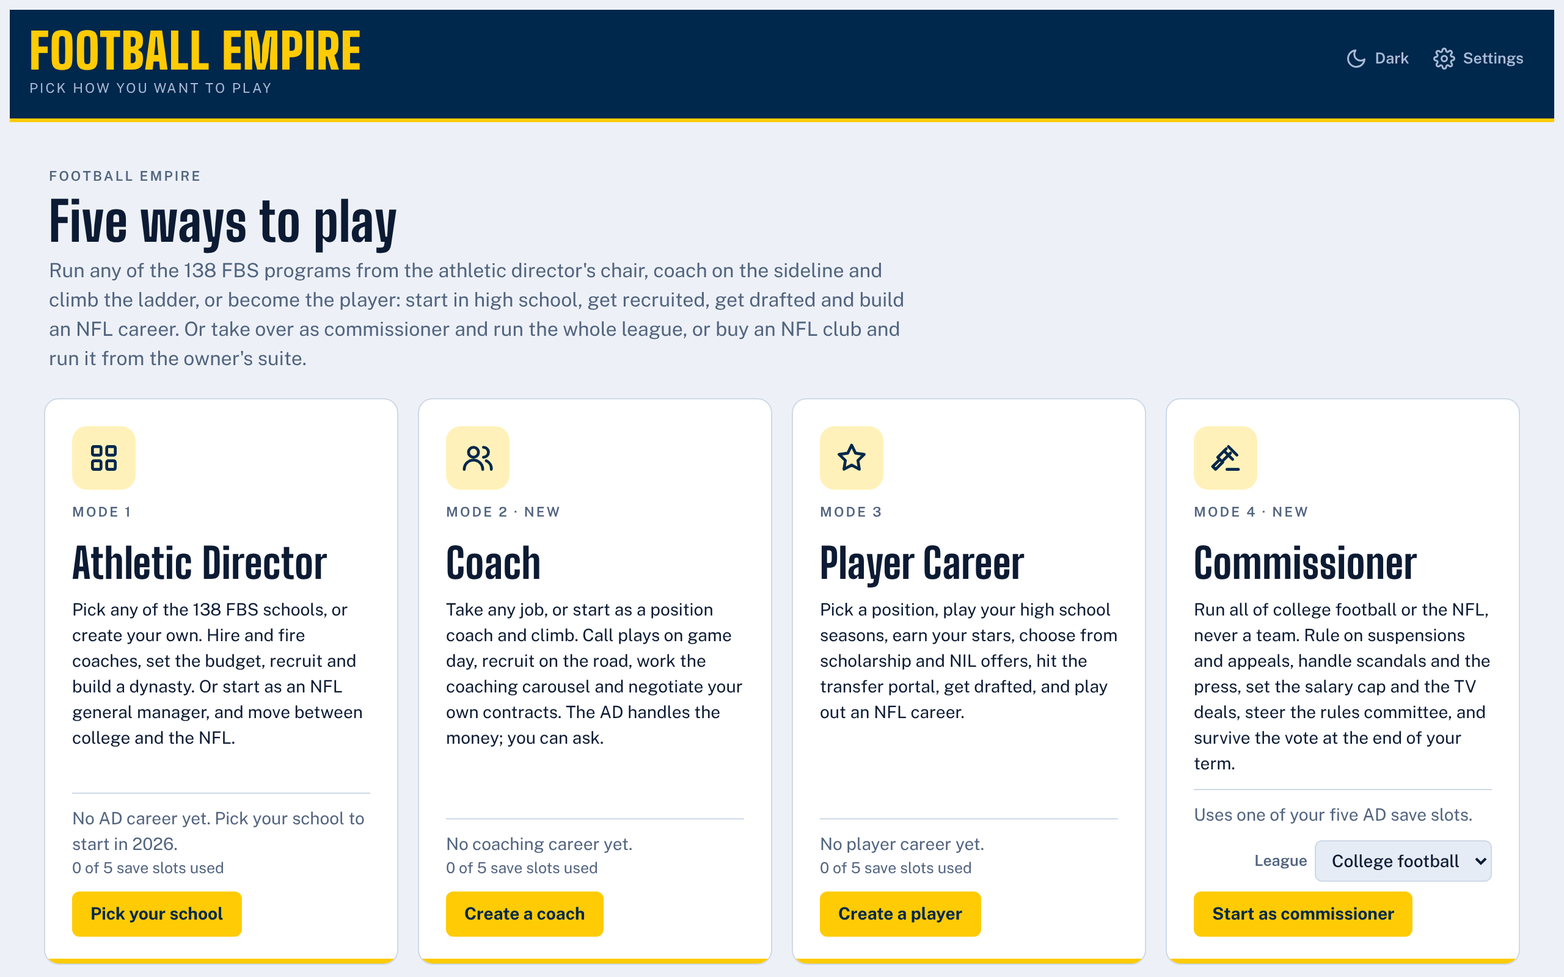
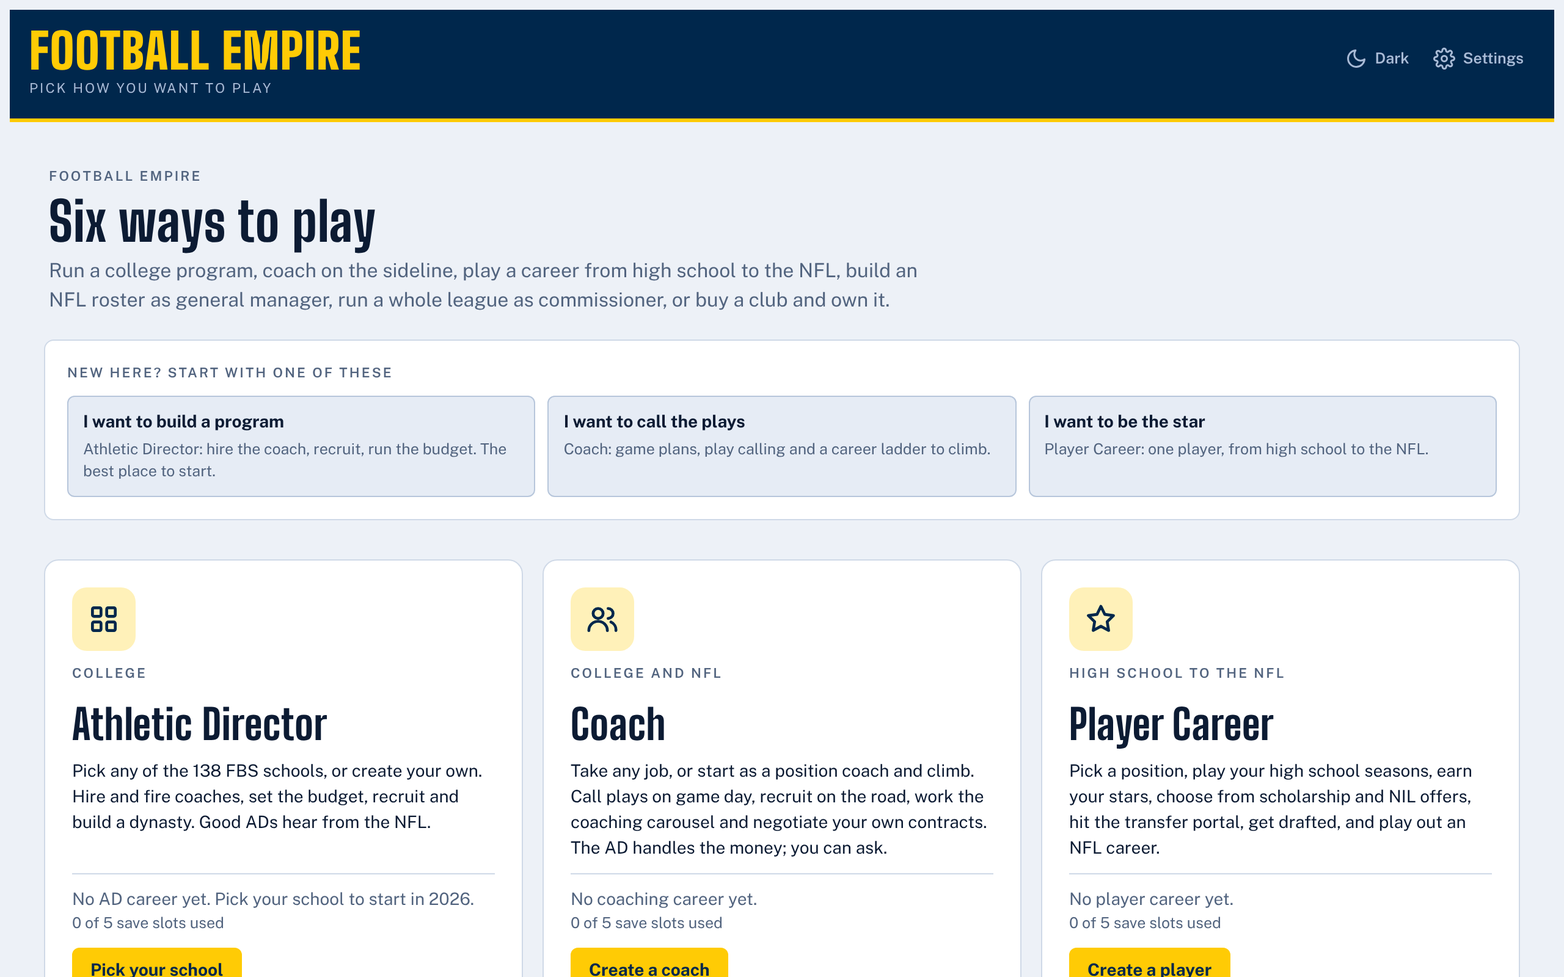
Update README and roadmap for 9.53; refresh screenshots
Claude-Session: https://claude.ai/code/session_014hMy4sSDJVn9gXzqS62oue

diff --git a/ROADMAP.md b/ROADMAP.md
@@ -1,58 +1,49 @@
 # Football Empire roadmap
 
-A plan for where to take the game next, written after a full review of version 9.52: the five modes, the home screen, the save system, the code and the site at collegefbsim.com.
+A plan for where to take the game next. It started as a full review of version 9.52 (the modes, the home screen, the save system, the code and the site at collegefbsim.com) and is updated as items ship.
 
 **The short version:** the game already has more features than most players will ever find. The biggest gains now are not more features. They are (1) fixing what is broken or missing on the website itself, (2) helping new players find the good parts, and (3) a small number of new modes that reuse systems you already built.
 
 Effort: **S** is a day or less, **M** is a few days, **L** is a week or more.
 
-## What I found
+## Status
 
-### Works well
+**Version 9.53 shipped the first round.** Done:
 
-- All five modes open and draw every tab with no errors. The automated smoke test and save test both pass.
-- Simulation is fast: six full seasons as athletic director run in about one second.
-- The design is consistent on desktop and on a 390px phone, with five themes, light and dark, and keyboard shortcuts.
-- Old saves keep loading, and the game has a save health center and downloadable save files.
-- The 9.50 and 9.51 work (main tabs plus More, "Needs your attention", the Inbox that takes you to the decision) is the right direction.
+- The build: plain source files in `src/` joined by `build.js`. The patch-against-v9.47 build is gone.
+- Tests on every push: every mode opens, feature tests, balance guardrails, saves load.
+- Home screen: a Continue card, quick picks for new players, a card for NFL General Manager, six cards in an even grid, scenarios folded away, no stale "NEW" labels.
+- Fantasy draft start for general managers.
+- Ironman careers for athletic directors and general managers.
+- Share your season: a picture in team colors.
+- Installable and playable offline.
+- A storage note on the Save file page, and the game asks the browser to keep saves.
+- Leaderboard prompts and the friends league are hidden where they can't work.
+- Visit counting is built in but off. It needs a free GoatCounter account and one line of setup (see `docs/DEVELOPMENT.md`).
+- Search and link-preview tags, an icon, a not-found page, a sitemap, the page language.
 
-### Problems
+**A correction to my first review.** I wrote that saves could run out of room at about 5 MB. I had measured the save before it is stored. Saves are compressed: a six-season athletic director save takes 134 KB, so the limit is roughly 35 long careers away. Moving saves to a different kind of storage is not needed, and I did not do it. The storage note covers the rare case.
+
+## Still open from the first review
 
 | # | Problem | Why it matters |
 |---|---|---|
-| 1 | **Online features are dead on collegefbsim.com.** The daily challenge leaderboard, cloud saves, the friends league and tutorial sync only work when the game is opened inside claude.ai. On your own domain, the home screen tells visitors "Scores show up here when the game is opened from its claude.ai link." | Visitors to your site see a feature they can't use and a link to somewhere else. The daily challenge has no reason to come back without a leaderboard. |
-| 2 | **Saves use browser storage with a hard limit of about 5 MB.** An AD save starts at 230 KB and grows about 45 KB a season after the first (582 KB after six seasons). With up to 15 slots across modes, a player with a few long dynasties will run out of room. | Losing a 20-season dynasty is the worst thing that can happen to a player of this kind of game. I did not check whether saves are compressed before they are stored; if they are, the limit is further away but still there. |
-| 3 | **You can't see how the game is played.** There are no visit or usage numbers. | You don't know which modes people play, where they quit, or whether an update helped. Every decision below is a guess without this. |
-| 4 | **The home screen is a wall.** A first-time visitor sees five mode cards, the daily challenge, nine scenarios, a challenge builder and patch notes. Three modes still say "NEW". The fifth card (Owner) sits alone on its own row. | New players have to pick a mode before they know what any of them feel like. |
-| 5 | **NFL general manager is hidden.** It is a full mode, but you reach it through the last sentence of the Athletic Director card. Commissioner and Owner both "use one of your five AD save slots." | Players who only want the NFL may never find it. Shared slots are confusing. |
-| 6 | **Athletic Director has 39 tabs**, the NFL has 37. The More menu hides them but does not reduce them. | Features get lost. Several tabs are different views of the same thing (feed, front page, pregame show, reels). |
-| 7 | **The build is fragile.** Every update is 75 exact-text replacements against a frozen copy of version 9.47, plus appended modules that wrap older functions. | Each new update gets harder to make and easier to break. One changed line in the base breaks an unrelated edit. |
-| 8 | **Real names carry legal risk.** The game uses real school names, real NFL club names and the real Michigan roster. | This is common for fan projects and usually tolerated while the game is free. Real player names are the riskiest part, and all of it becomes a real problem the day you add ads or payments. Talk to a lawyer before monetizing. |
-| 9 | **No offline play and no install.** The page needs a connection to load and fetches its fonts from Google. | A single-file game is the ideal installable app. Phones are where sim games get played. |
+| 1 | **Online features have no home on collegefbsim.com.** The daily challenge leaderboard, cloud saves and the friends league only work when the game is opened inside claude.ai. They are hidden on your domain now, not fixed. | The daily challenge has little pull without a leaderboard. This is Phase 2. |
+| 2 | **Visit counting is not switched on.** | Until it is, you can't see which modes people play or where they quit. It takes five minutes and an account only you can create. |
+| 3 | **Commissioner, Owner and General Manager share the five AD save slots.** | Confusing, and five slots across four kinds of career is tight. Changing it means moving existing saves, so it needs its own careful update. |
+| 4 | **Athletic Director has 39 tabs**, the NFL has 37. The More menu hides them but does not reduce them. | Features get lost. Several tabs are different views of the same thing (feed, front page, pregame show, reels). |
+| 5 | **Real names carry legal risk.** The game uses real school names, real NFL club names and the real Michigan roster. | Usually tolerated while a fan game is free. Real player names are the riskiest part, and all of it becomes a real problem the day you add ads or payments. Talk to a lawyer before monetizing. |
+| 6 | **Ironman and the fantasy draft cover only some modes.** Ironman is AD and GM; the fantasy draft is GM. | Coach, Player Career and Owner players will ask for them. |
 
-## Done on this branch
-
-- A README, this roadmap and a developer guide.
-- The full source, build script and tests are in the repository, not only the built file.
-- `npm test` and a GitHub check that runs on every push: the build is fresh, every mode opens, saves load.
-- Search and link-preview tags, a page title that says what the game is, a tab icon, a preview image, a not-found page, `robots.txt` and a sitemap.
-- The page now declares its language (`lang="en"`), which screen readers need.
-
-No gameplay changed, so the version is still 9.52.
-
-## Phase 1: fix the foundation
-
-Do these before any new feature. Together they are about two weeks of work.
+## Phase 1: finish the foundation
 
 | Item | What to do | Effort |
 |---|---|---|
-| **Usage numbers** | Add a privacy-friendly counter (Cloudflare Web Analytics, GoatCounter or Plausible; none need a cookie banner). Record page views plus a few events: mode started, season finished, save exported. | S |
-| **Hide the dead ends** | Until the online features work on your domain, hide the leaderboard text, cloud saves and the friends league there, so visitors don't see features they can't use. | S |
-| **Safer saves** | Move saves from `localStorage` to IndexedDB (hundreds of MB, not 5). Migrate existing saves on first load and keep the old copy until the new one is confirmed. Ask the browser for persistent storage. Show storage used in the save health center and warn at 80%. Nudge players to download a backup every few seasons. | M |
-| **Installable and offline** | Add a web app manifest and a small service worker that caches the page. Bundle the two fonts or fall back to system fonts. Players can then add the game to their home screen and play on a plane. | M |
-| **Home screen** | When a save exists, lead with one "Continue" card for the most recent career. For first-time visitors, add a "Which mode is for me?" row (three questions, one recommendation). Give NFL General Manager its own card. Fold scenarios behind one "Challenges" card. Drop the stale "NEW" labels. Use a six-card grid so no card is orphaned. | M |
-| **Own save slots for Commissioner and Owner** | Stop borrowing AD slots. Existing saves stay where they are; new ones get their own. | M |
-| **Accessibility pass** | The page has good basics (labels, focus rings, keyboard shortcuts). Run a full audit on contrast in all five themes, focus order in dialogs, and screen reader announcements for live game events. | M |
+| **Turn on visit counting** | Create a GoatCounter site and put its code in `src/js/460-site.js`. | S |
+| **Own save slots for General Manager, Commissioner and Owner** | Give each its own set of five. Existing saves stay where they are; new ones go to the new sets. | M |
+| **Ironman everywhere** | Extend it to Coach, Player Career, Commissioner and Owner. | S |
+| **Accessibility pass** | The page has good basics (labels, focus rings, keyboard shortcuts, a declared language). Run a full audit on contrast in all five themes, focus order in dialogs, and screen reader announcements for live game events. | M |
+| **Bundle the fonts** | The two fonts come from Google. Offline play already keeps a copy after the first visit; shipping them with the game removes the outside request altogether. | S |
 
 ## Phase 2: bring the online features home
 
@@ -60,10 +51,10 @@ Everything social in the game (leaderboards, cloud saves, friends league, shared
 
 | Item | What to do | Effort |
 |---|---|---|
-| **A backend of your own** | The sharing code is in one section of the game and checks for its host before it does anything. Give it a second host: a hosted service with a free tier. My recommendation is **Supabase** (database, sign-in and row-level security in one, and no server to run). Cloudflare Workers with D1 is a good alternative if you'd like everything in one place with your domain. | L |
+| **A backend of your own** | The sharing code is in one file (`src/js/300-sharing.js`) and already talks to a document database in the collection-and-document style that **Firebase Firestore** uses. So my recommendation changed from Supabase to Firebase: its free tier covers this, it includes sign-in, and the existing calls map onto it almost one for one. This needs a Firebase project that you create. | M |
 | **Sign-in** | Optional, never required to play. Email link or Google. Signing in turns on cloud saves and puts your name on leaderboards. | M |
 | **Daily challenge leaderboard** | The daily challenge already gives everyone the same school and league. With a leaderboard it becomes the reason to come back each day. Add a weekly and an all-time board. Validate scores on the server, or expect cheating. | M |
-| **Share cards** | After a title, a draft night, a Heisman or a fired coach, offer a "Share" button that makes a picture (team colors, record, headline) with a link back to the site. This is the cheapest growth feature available: every share is an ad. | M |
+| **More share cards** | The season picture is done. Add the same for draft night, a Heisman, a Hall of Fame induction and a Player Career. Every share is an ad for the site. | S |
 | **Friends league, then online leagues** | Turn the friends league back on first. Later, grow it into commissioner-run online leagues where each friend runs a program in the same world and the week advances when everyone is ready (or on a timer). | L, then L |
 
 ## Phase 3: new modes and features
@@ -74,8 +65,7 @@ Listed in the order I'd build them. Each reuses systems that already exist.
 
 | Idea | What it is | Why it's worth it | Effort |
 |---|---|---|---|
-| **Ironman** | One save, no reloading, no undo, saved after every decision. A badge on the career and its own leaderboard. | Cheap to build, and it gives your most dedicated players a reason to start over. | S |
-| **Fantasy draft start** | For NFL GM and Owner: every player goes into one pool and all 32 clubs draft from scratch. | A favorite in every franchise game, and the draft-night screen already exists. | M |
+| **Fantasy draft for owners** | The general manager version is done. Offer it when an owner buys a club or starts an expansion team. | Owners who act as their own GM will want it. | S |
 | **Start at the bottom** | Begin as AD or coach at an FCS school (the game already has FCS teams as opponents) and earn the move up to FBS: stadium size, budget, results. | Gives the college modes a real "climb" story, the way Coach mode has a ladder. | L |
 | **Agent mode** | Represent players. Sign recruits and draft prospects as clients, negotiate their NIL and NFL contracts against the GMs, manage holdouts, build an agency. | A sixth mode that no other football sim has, built almost entirely on the negotiation system from 9.35 and the agents from 9.46. | L |
 | **Promotion and relegation** | A Commissioner option: tiers of conferences, with the bottom teams dropping and the top teams rising each year. | A "what if" that players love to argue about, and Commissioner mode already moves schools between conferences. | M |
@@ -116,32 +106,30 @@ Check each against what is already in the game before building; with 59 updates,
 
 - **Sound:** the game has only a few simple tones. Add an optional crowd, a whistle and a touchdown horn in the field view, with a mute button and off by default.
 - **Compare anything:** two players, two recruits, two teams or two seasons side by side.
-- **A season recap page:** one shareable page per season with the record, the best game, awards and the biggest decision. It doubles as the share card in Phase 2.
+- **A season recap page:** one shareable page per season with the record, the best game, awards and the biggest decision.
 - **Team packs gallery:** team packs and custom challenges already export to a file or code. A page on the site where players post and download them would make the game feel alive between updates.
 
-## Phase 4: make the code easier to change
-
-This can run alongside Phase 3. It adds nothing a player sees, but every later update gets cheaper.
+## Phase 4: keep the code easy to change
 
 | Item | What to do | Effort |
 |---|---|---|
-| **Retire the base-plus-edits build** | Apply the 75 edits to the base once and make the result the source. Then split the single 22,000-line script into files by area (engine, each mode, UI, saves) and have a bundler (esbuild) produce the same single `index.html`. | L |
-| **Balance tests** | The smoke test proves nothing crashes. Add tests that simulate 200 seasons on autopilot and check that the numbers stay in range: wins by roster strength, points per game, how often a top recruit gets no offers, how often a GM wins the Super Bowl. Versions 9.26 to 9.28, 9.47 and 9.52 were all balance fixes found by hand. | M |
-| **Save format tests** | Keep a real save file from each major version in `tests/saves/` and load every one on each build. | S |
+| **Fold the wrappers in** | Later updates added behavior by wrapping older functions from a new file. Now that the source is plain files, move each wrapper's code into the function it wraps, a few at a time, with `npm test` after each. | M |
+| **More balance tests** | The guardrails cover wins and scoring for an AD and a GM. Add coach promotions, Player Career draft position and recruiting offers, which were all fixed by hand in 9.47 and 9.52. | M |
+| **Save files from every version** | Keep a real save from each major version in `tests/fixtures/` and load every one on each build. Today only v9.47 is covered. | S |
 | **Preview builds** | Publish every pull request to a preview address so you can play a change on your phone before it goes live. | S |
 | **Decide the names question** | Before any monetization: get advice on school names, club names and the Michigan roster. A safe fallback is fictional names by default with real names available as a team pack the player loads. | S |
 
 ## Suggested order
 
-1. **Now:** usage numbers and hiding the dead ends (two small changes, both in Phase 1).
-2. **Next:** safer saves, then the home screen.
-3. **Then:** the backend, the daily leaderboard and share cards. This is the point where the game can start growing by itself.
-4. **After that:** Ironman and fantasy draft (small, popular), then Agent mode or "start at the bottom" as the next headline update.
-5. **In the background:** the code cleanup in Phase 4, starting with balance tests.
+1. **Now:** turn on visit counting. It needs you, and everything after it is better with numbers.
+2. **Next:** the Firebase backend, then the daily leaderboard. This is the point where the game can start growing by itself.
+3. **Then:** own save slots, Ironman everywhere, more share cards.
+4. **After that:** Agent mode or "start at the bottom" as the next headline update.
+5. **In the background:** Phase 4.
 
 ## What I'd hold off on
 
 - **More tabs in existing modes.** The modes are deep enough; new pages add to the finding problem.
 - **Real-time multiplayer.** Turn-based online leagues give most of the fun for a fraction of the work.
-- **A native phone app.** The installable web version in Phase 1 gets you the home-screen icon and offline play with no app store.
+- **A native phone app.** The installable web version, which is done, gets you the home-screen icon and offline play with no app store.
 - **Ads or payments,** until the names question is settled.

diff --git a/README.md b/README.md
@@ -4,17 +4,18 @@
 
 [![Checks](https://github.com/carsonmmm/cfbsim/actions/workflows/ci.yml/badge.svg)](https://github.com/carsonmmm/cfbsim/actions/workflows/ci.yml)
 
-No download, no account, no ads. The whole game is one HTML file, and your careers are saved in your own browser.
+No download, no account, no ads. Your careers are saved in your own browser, and you can install the game on your phone and play offline.
 
-![The Football Empire home screen, showing the five modes](docs/img/home.png)
+![The Football Empire home screen, showing the six modes](docs/img/home.png)
 
-## Five ways to play
+## Six ways to play
 
 | Mode | You are | What you do |
 |---|---|---|
-| **Athletic Director** | The AD at any of the 138 FBS schools, or one you create | Hire and fire coaches, set the budget, recruit, run the department and build a dynasty. You can also start as an NFL general manager and move between college and the NFL. |
+| **Athletic Director** | The AD at any of the 138 FBS schools, or one you create | Hire and fire coaches, set the budget, recruit, run the department and build a dynasty. |
 | **Coach** | A coach at any level, from position coach to head coach | Call plays on game day, draw your own playbook, recruit on the road, work the coaching carousel and negotiate your own contracts. |
 | **Player Career** | One player, from high school on | Earn your stars, choose from scholarship and NIL offers, use the transfer portal, get drafted and play out an NFL career. |
+| **General Manager** | The GM of an NFL club | Run the draft, the salary cap, free agency and trades. Start with the current rosters, or with a fantasy draft where all 32 clubs pick from one pool. |
 | **Commissioner** | The head of college football or the NFL | Rule on suspensions and appeals, handle scandals, set the salary cap and TV deals, steer the rules committee and survive the vote on your term. |
 | **Owner** | The owner of an NFL club | Buy a club or start an expansion team, set prices, build a stadium, hire the GM and coach, and win votes at the owners' meeting. |
 
@@ -23,6 +24,7 @@ Also on the home screen:
 - **Daily challenge:** the same school and league for everyone, one season, a new one each day.
 - **Scenario challenges:** nine careers that start in trouble (a scandal, an 0-12 program, cap hell, a labor war and more), each with goals and a deadline.
 - **Build your own challenge**, and share it with a code.
+- **Ironman:** start an athletic director or general manager career with no undo, no admin tools and a locked difficulty.
 
 ![The athletic director's office in the middle of a season](docs/img/athletic-director.png)
 
@@ -31,18 +33,20 @@ Also on the home screen:
 - **Game day:** a field view where all 22 players move, with four cameras, weather, live play calling, game plans, halftime adjustments and a two-minute drill.
 - **A living world:** a fan feed, a weekly pregame show, a front page, rivalry trophies, award night, record books, a Hall of Fame and league history that carries from one career to the next.
 - **Front office depth:** recruiting with uncertain scouting, promises, the transfer portal, the NFL draft, the salary cap, free agency, trades, agents and one negotiation system shared by every mode.
+- **Share your season:** a picture of your record in your team's colors, to save or post.
 - **Made for long saves:** five save slots per mode, save files you can download, a save health center, and old saves that keep loading after every update.
 - **Yours to shape:** five themes, light and dark, a sidebar or top tabs, keyboard shortcuts, color-blind friendly colors, team packs with your own names and colors, and a tutorial for every mode.
 - **Works on a phone:** the layout fits a 390px screen.
 
 <img src="docs/img/phone.png" alt="The home screen on a phone" width="280">
 
-All 59 updates are in [PATCH_NOTES.md](PATCH_NOTES.md). The current version is **9.52**.
+All 60 updates are in [PATCH_NOTES.md](PATCH_NOTES.md). The current version is **9.53**.
 
 ## Good to know
 
 - **Your saves live in your browser.** Clearing site data for collegefbsim.com deletes them. Download a save file from the Save file tab to back one up or move it to another device.
-- **Some online features don't work on collegefbsim.com yet.** The daily challenge leaderboard, cloud saves and the friends league were built for a different host. Everything else works. Fixing this is the first item on the [roadmap](ROADMAP.md).
+- **Install it.** On a phone, open collegefbsim.com and choose "Add to Home Screen". After that it opens with no connection.
+- **Leaderboards, cloud saves and the friends league are not on collegefbsim.com yet.** They need a sign-in service behind them, which is the next big item on the [roadmap](ROADMAP.md). They are hidden until then.
 
 ## Where it's going
 
@@ -50,21 +54,21 @@ All 59 updates are in [PATCH_NOTES.md](PATCH_NOTES.md). The current version is *
 
 ## Working on the game
 
-`index.html` is built from `source/`. Don't edit it by hand.
-
-```bash
-./build.sh
-```
+The game is built from the files in `src/`. `index.html` is the built result; don't edit it by hand.
 
 ```bash
 npm install && npx playwright install chromium
 ```
 
 ```bash
+npm start
+```
+
+```bash
 npm test
 ```
 
-`npm test` confirms that `index.html` matches `source/`, that every mode opens without errors, and that saves load. GitHub runs it on every push. [docs/DEVELOPMENT.md](docs/DEVELOPMENT.md) explains how the code is organized, how to add a feature and the house rules (old saves keep loading, every update gets a patch note, check the phone layout).
+`npm start` serves the game at http://localhost:8080 and rebuilds when a source file changes. `npm test` checks that the build is fresh, every mode opens, the feature and balance tests pass, and saves load; GitHub runs it on every push. [docs/DEVELOPMENT.md](docs/DEVELOPMENT.md) has the file map, how to add a feature, how to ship an update and the house rules.
 
 Publishing is automatic: GitHub Pages serves the `main` branch at collegefbsim.com, so whatever `index.html` is on `main` is the live game.
 
